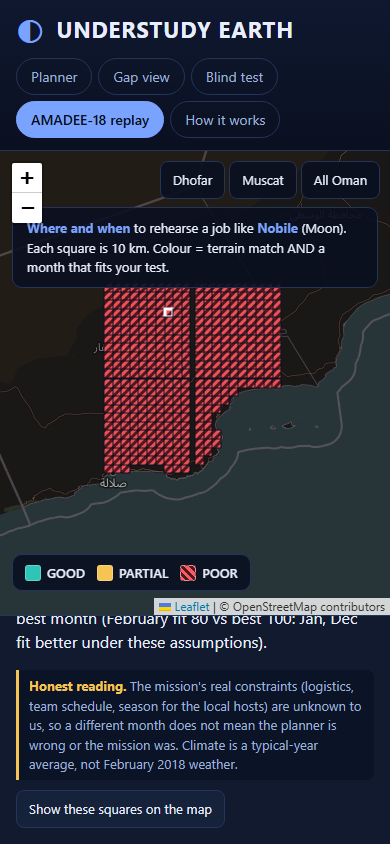
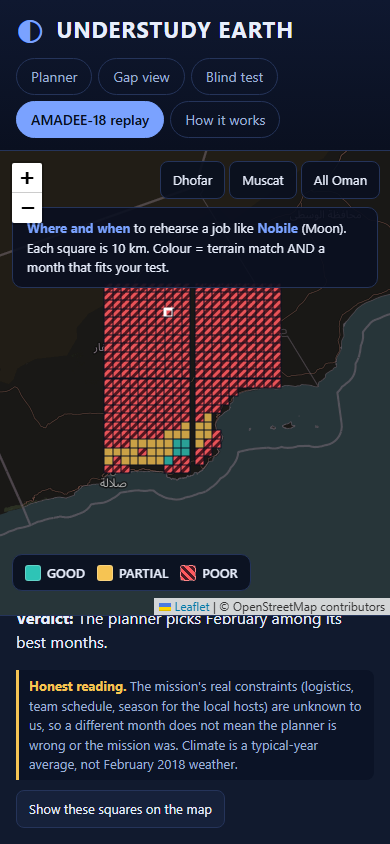
add WorldClim cross-check summary, progress and docs

Changed region(s): [[0.0308, 0.7085, 0.9231, 0.7701], [0.2462, 0.4929, 0.5538, 0.5545]]

diff --git a/docs/PROGRESS.md b/docs/PROGRESS.md
@@ -30,3 +30,5 @@
 - Blind test: AMADEE-18 area top 10.7% (mean over Mars targets) / 24.0% (best target); Meteor Crater 4.5% / 22.4%; Atacama tile 50.6% / 24.9%.
 - NASA POWER: 30 cells cached; tests check units, ordering and raw-cache equality.
 - AMADEE-18 replay (assumed needs: day max <= 35 C, night min >= 5 C, sun >= 4): planner best months Jan and Dec; Feb scores 80 (good, not top). Real phase Feb 2018 (OeWF).
+- WorldClim cross-check (627 windows, WorldClim minus NASA POWER, mean over windows): mean temperature agrees within about 1 C (mean abs 1.1); wind mean abs 0.8 m/s; sunlight mean abs 0.5 kWh/m2/day. But POWER T2M_MAX is about 7 C higher and T2M_MIN about 5 C lower than WorldClim mean daily max/min (POWER daily range is wider, likely extremes or reanalysis bias). Consequence: the published strip (POWER) is conservative for "day max / night min" needs. Aggregates only, in docs/climate_crosscheck.json; WorldClim per-window values stay local (licence). Ask owner before publishing them or asking WorldClim for permission (info@worldclim.org).
+- Public link verified live (418 squares render): https://samaralhadhrami.github.io/understudy-earth/

diff --git a/docs/TRD.md b/docs/TRD.md
@@ -20,5 +20,7 @@
 - Best months: within 90% of the best fit and at least 50, at most 3.
 - Where+when colour = worse of terrain tier and best-month tier.
 
+- Cross-check: WorldClim and POWER mean temperatures agree within about 1 C, but POWER daily max/min are about 7 C hotter / 5 C colder than WorldClim mean daily max/min, so POWER-driven strips are conservative.
+
 ## Known limits
 500 m cells hide rocks and steps; rover limit is rover-scale; DSM vs bare ground; Moon south pole only; Oman = tiles we hold; climate is a typical-year average on coarse cells; ready-made test numbers are our assumptions.
